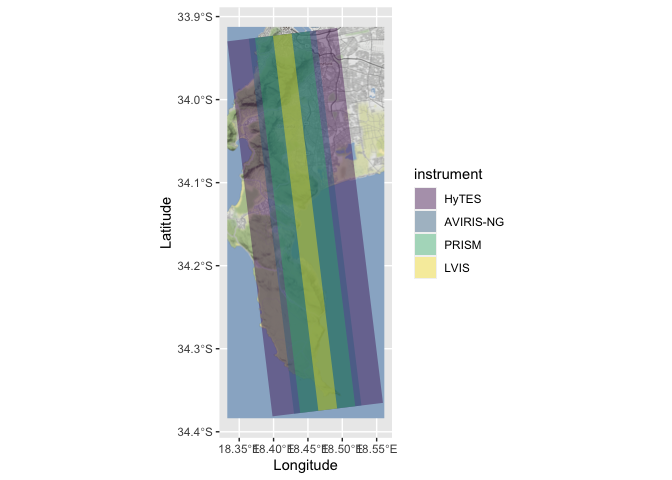
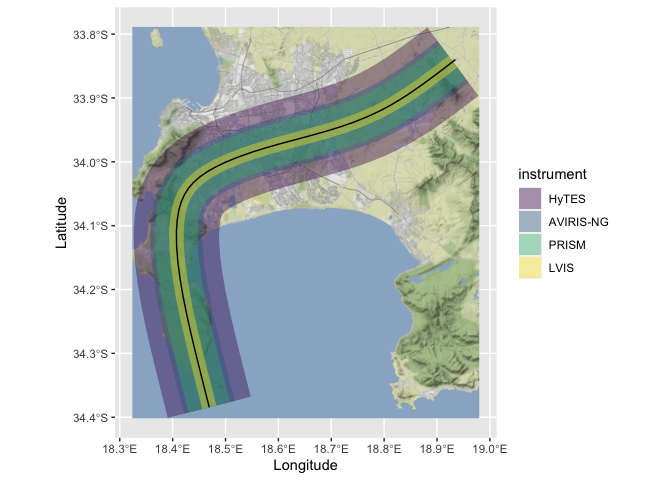
add curvy path

diff --git a/FlightGeometry.md b/FlightGeometry.md
@@ -12,6 +12,7 @@ library(ggmap)
 library(data.table)
 library(piggyback)
 library(geosphere)
+library(smoothr)
 source("R/make_flight_line.R")
 ```
 
@@ -142,9 +143,13 @@ set_units(d,"km")
 
 ``` r
 path=st_linestring(x=as.matrix(rbind(
-  c(18.47881,-34.37332),
-  c(18.41166,-33.91458))),dim="XY") %>% 
-  st_sfc() %>% st_sf(path=1,geom=.,crs=4326)
+  c(18.46929,-34.38451),
+  c(18.37620,-34.08127),
+  c(18.46486,-33.99350),
+  c(18.77962,-33.94030),
+  c(18.93478,-33.84011))),dim="XY") %>% 
+  st_sfc() %>% st_sf(path=1,geom=.,crs=4326) %>% 
+  smooth(method = "ksmooth")
 ```
 
 ## Calculate instrument polygons
@@ -175,6 +180,7 @@ hdf <- get_map(location=bbox,
 ggmap(hdf, extent = "normal")+
   geom_sf(data=st_transform(flights,4326),mapping=aes(fill=instrument),
           alpha=.4,color=NA,inherit.aes = F)+
+  geom_sf(data=st_transform(path,4326),inherit.aes = F)+
   ylab("Latitude")+
   xlab("Longitude")
 ```
